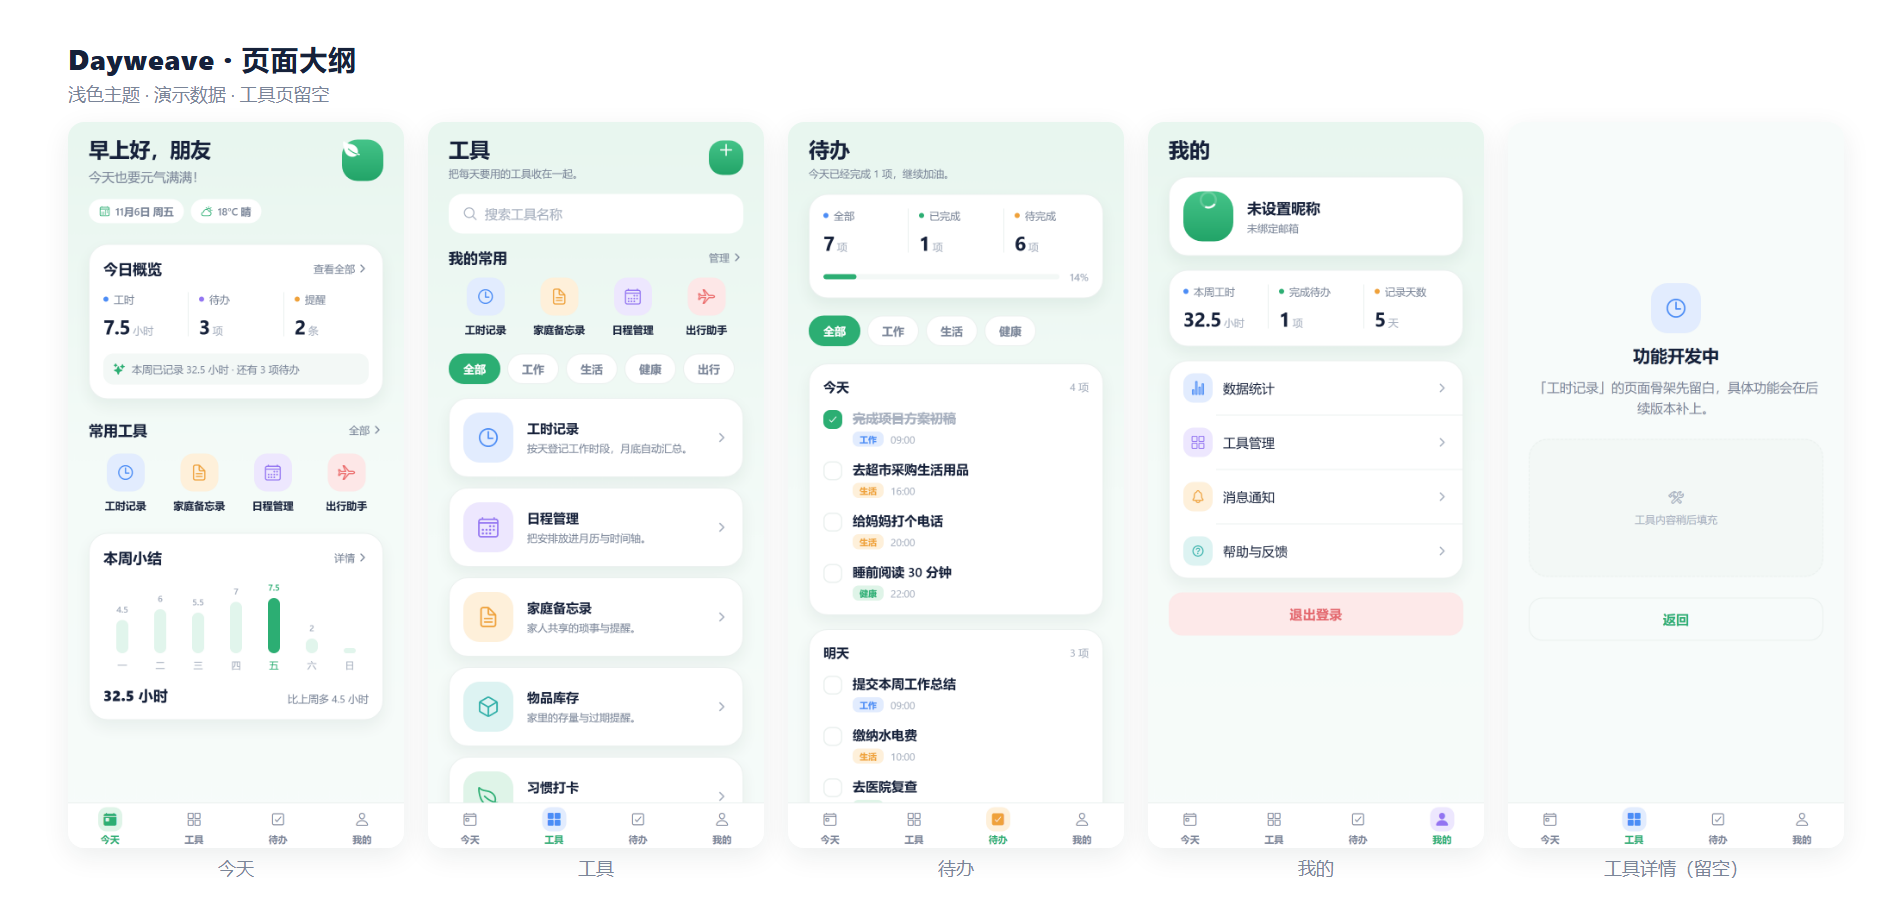
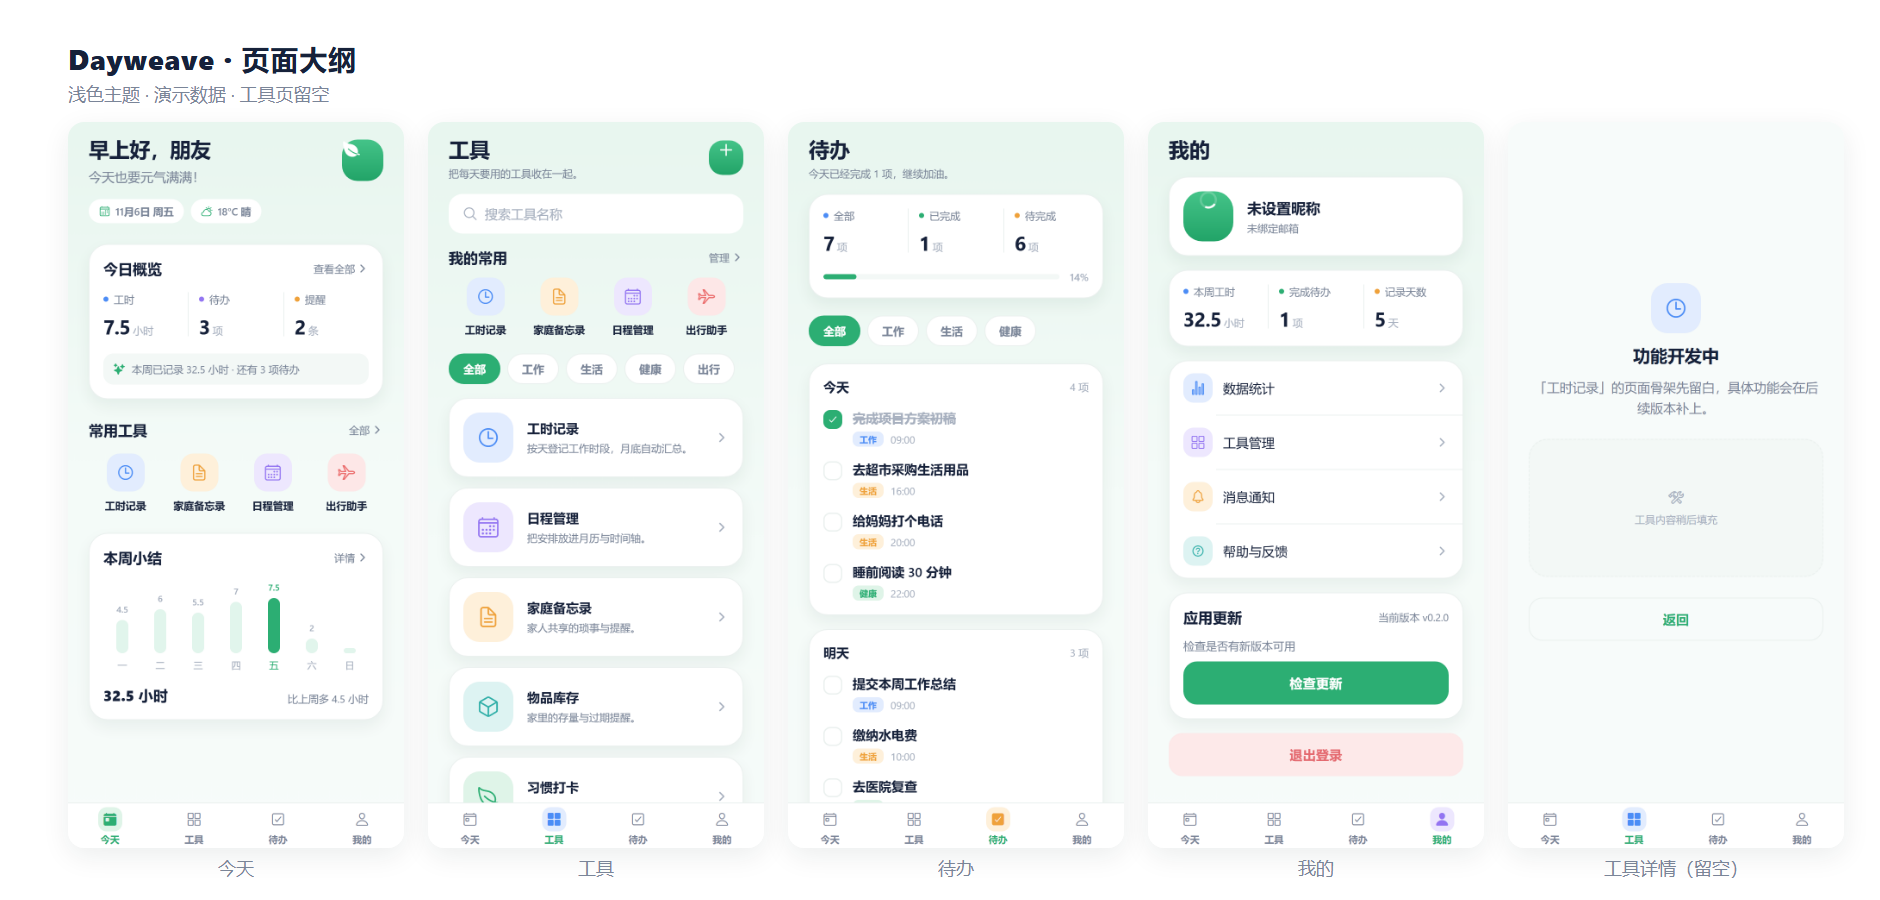
docs: 刷新预览图以反映「我的」页更新卡片

Changed region(s): [[0.617, 0.6533, 0.7713, 0.8711]]

diff --git a/scripts/render-preview.js b/scripts/render-preview.js
@@ -66,6 +66,21 @@ function glyph(name) {
 
 const mocks = {
   '@/lib/supabase': { supabase: {} },
+  // 「我的」页的更新卡片会间接加载这些原生模块，SSR 环境只需静态配置与占位实现。
+  'expo-constants': {
+    __esModule: true,
+    default: { expoConfig: { version: '0.2.0', android: { package: 'com.dayweave.app' } } },
+  },
+  'expo-file-system': {
+    documentDirectory: 'file:///docs/',
+    getInfoAsync: async () => ({ exists: false }),
+    makeDirectoryAsync: async () => undefined,
+    readDirectoryAsync: async () => [],
+    deleteAsync: async () => undefined,
+    getContentUriAsync: async (uri) => uri,
+    createDownloadResumable: () => ({ downloadAsync: async () => undefined }),
+  },
+  'expo-intent-launcher': { startActivityAsync: async () => undefined },
   'react-native-safe-area-context': {
     SafeAreaView: ({ style, children }) => React.createElement(View, { style }, children),
     SafeAreaProvider: ({ children }) => children,
